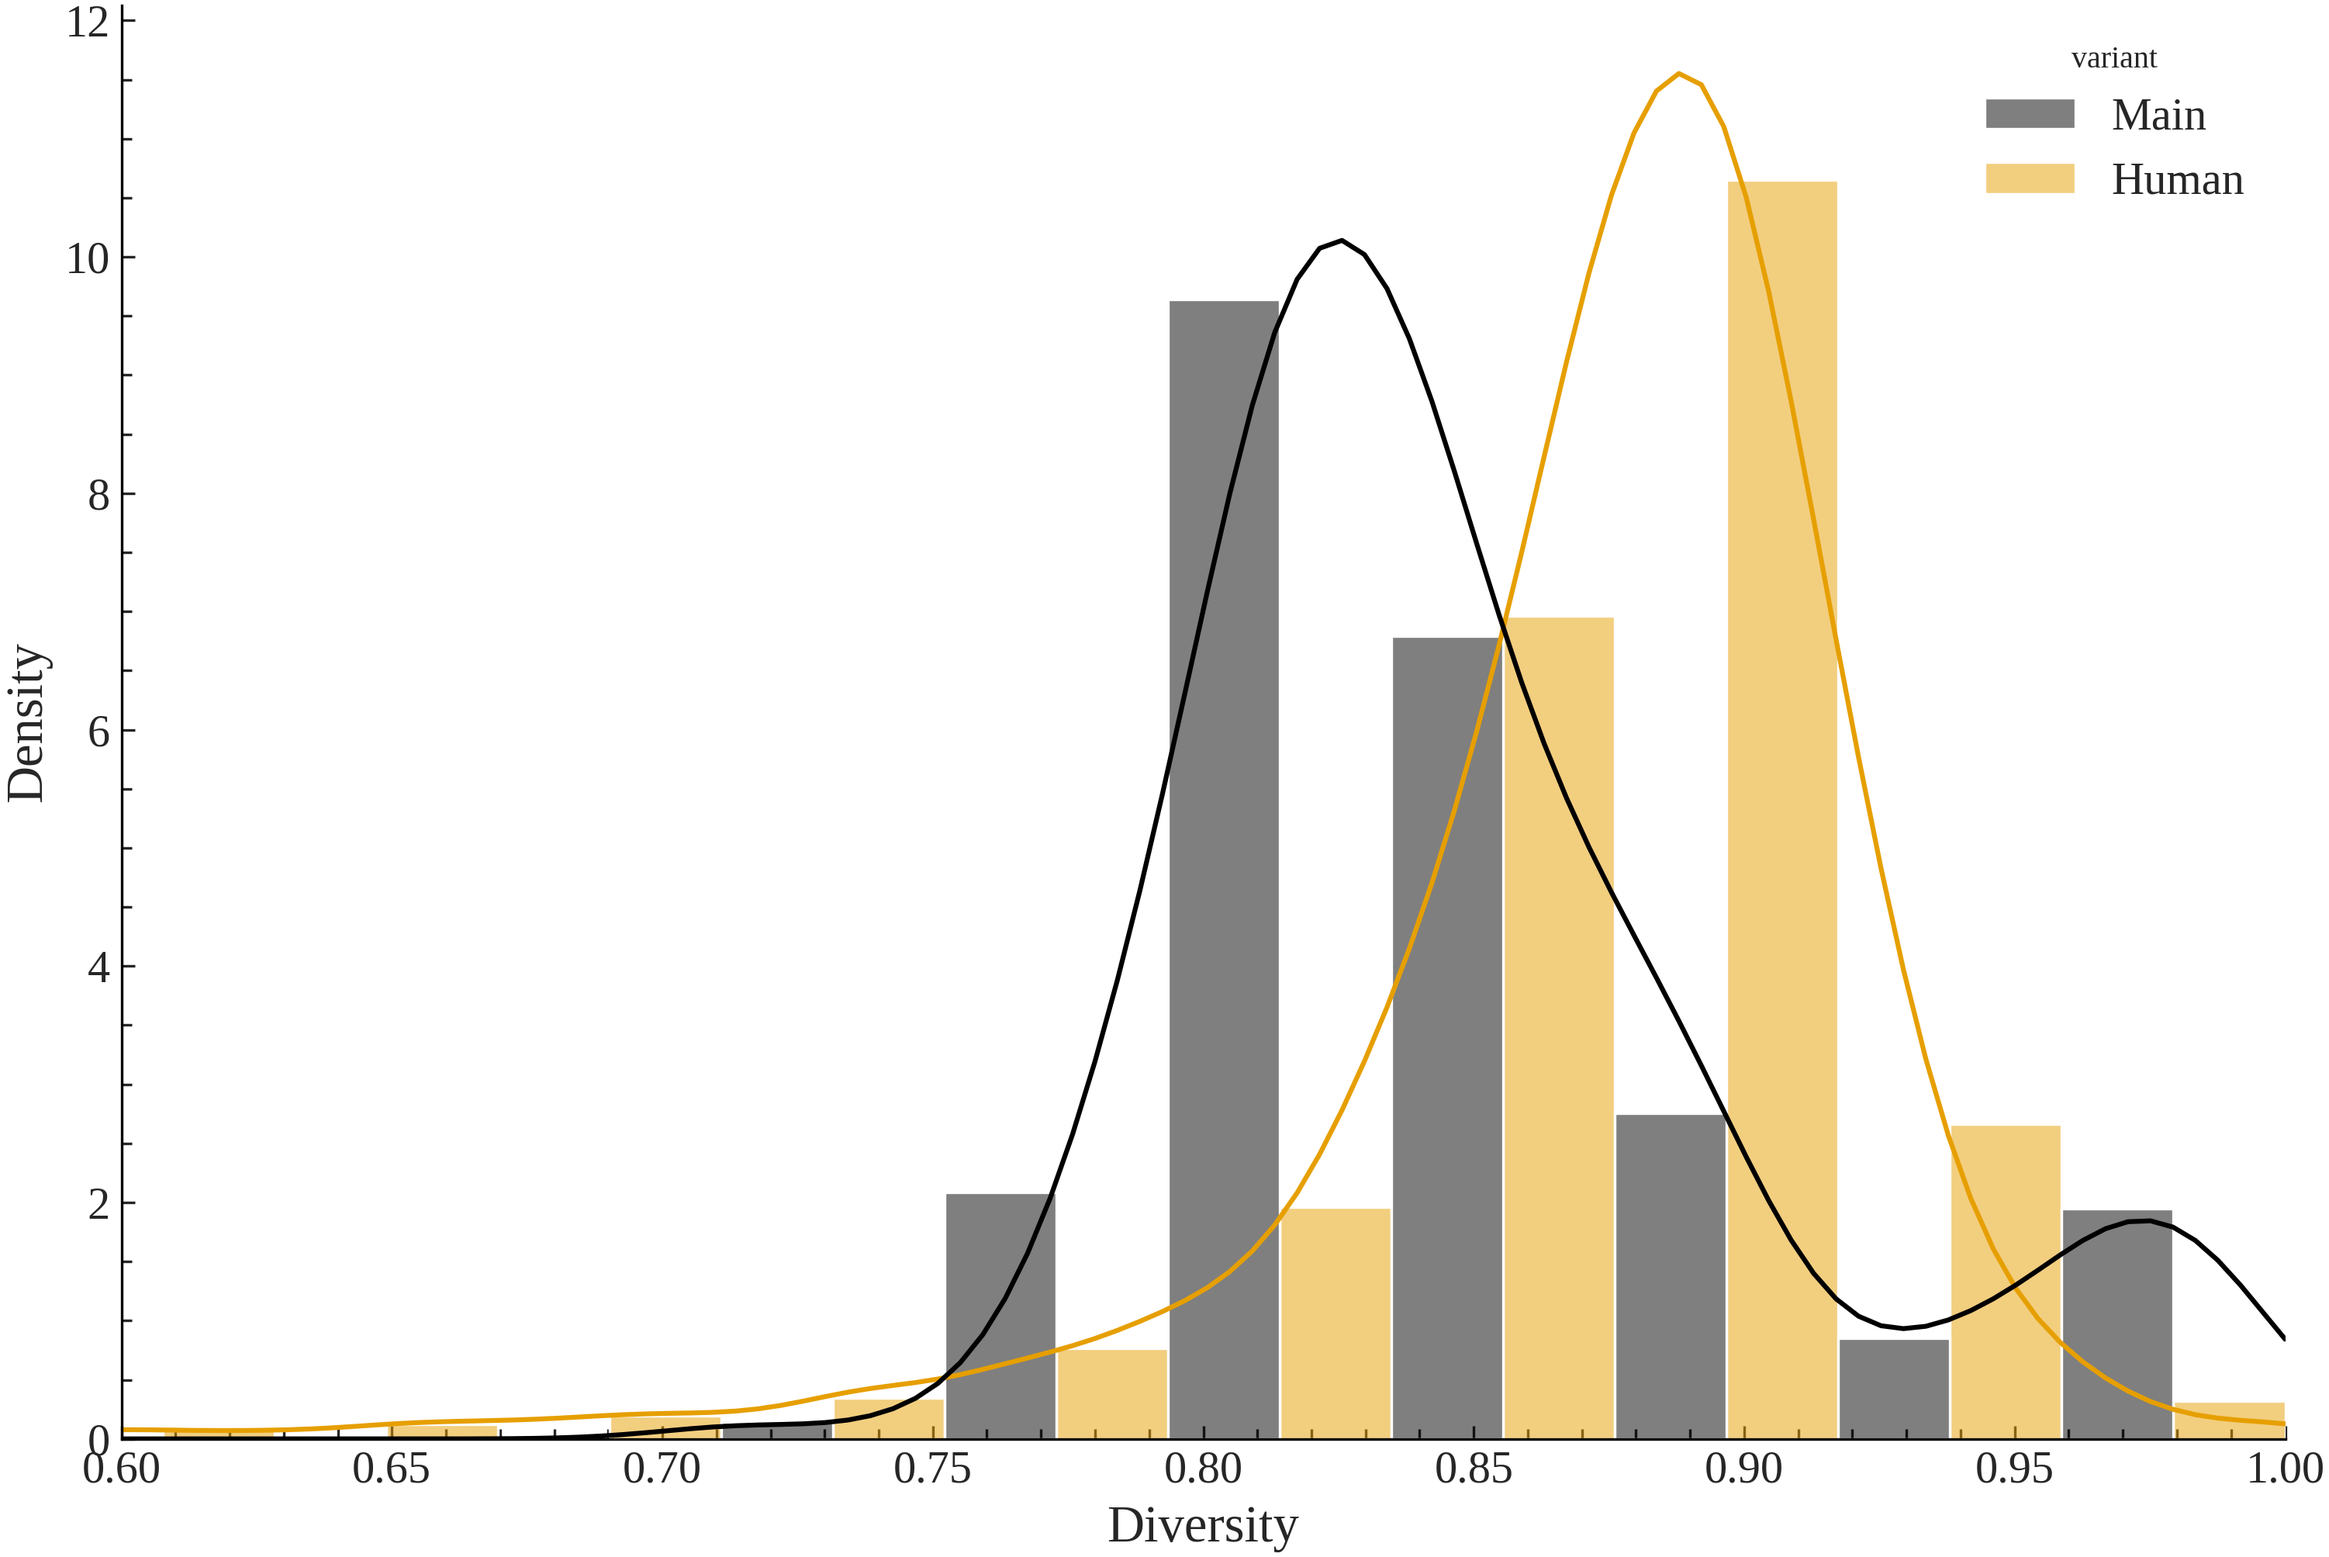
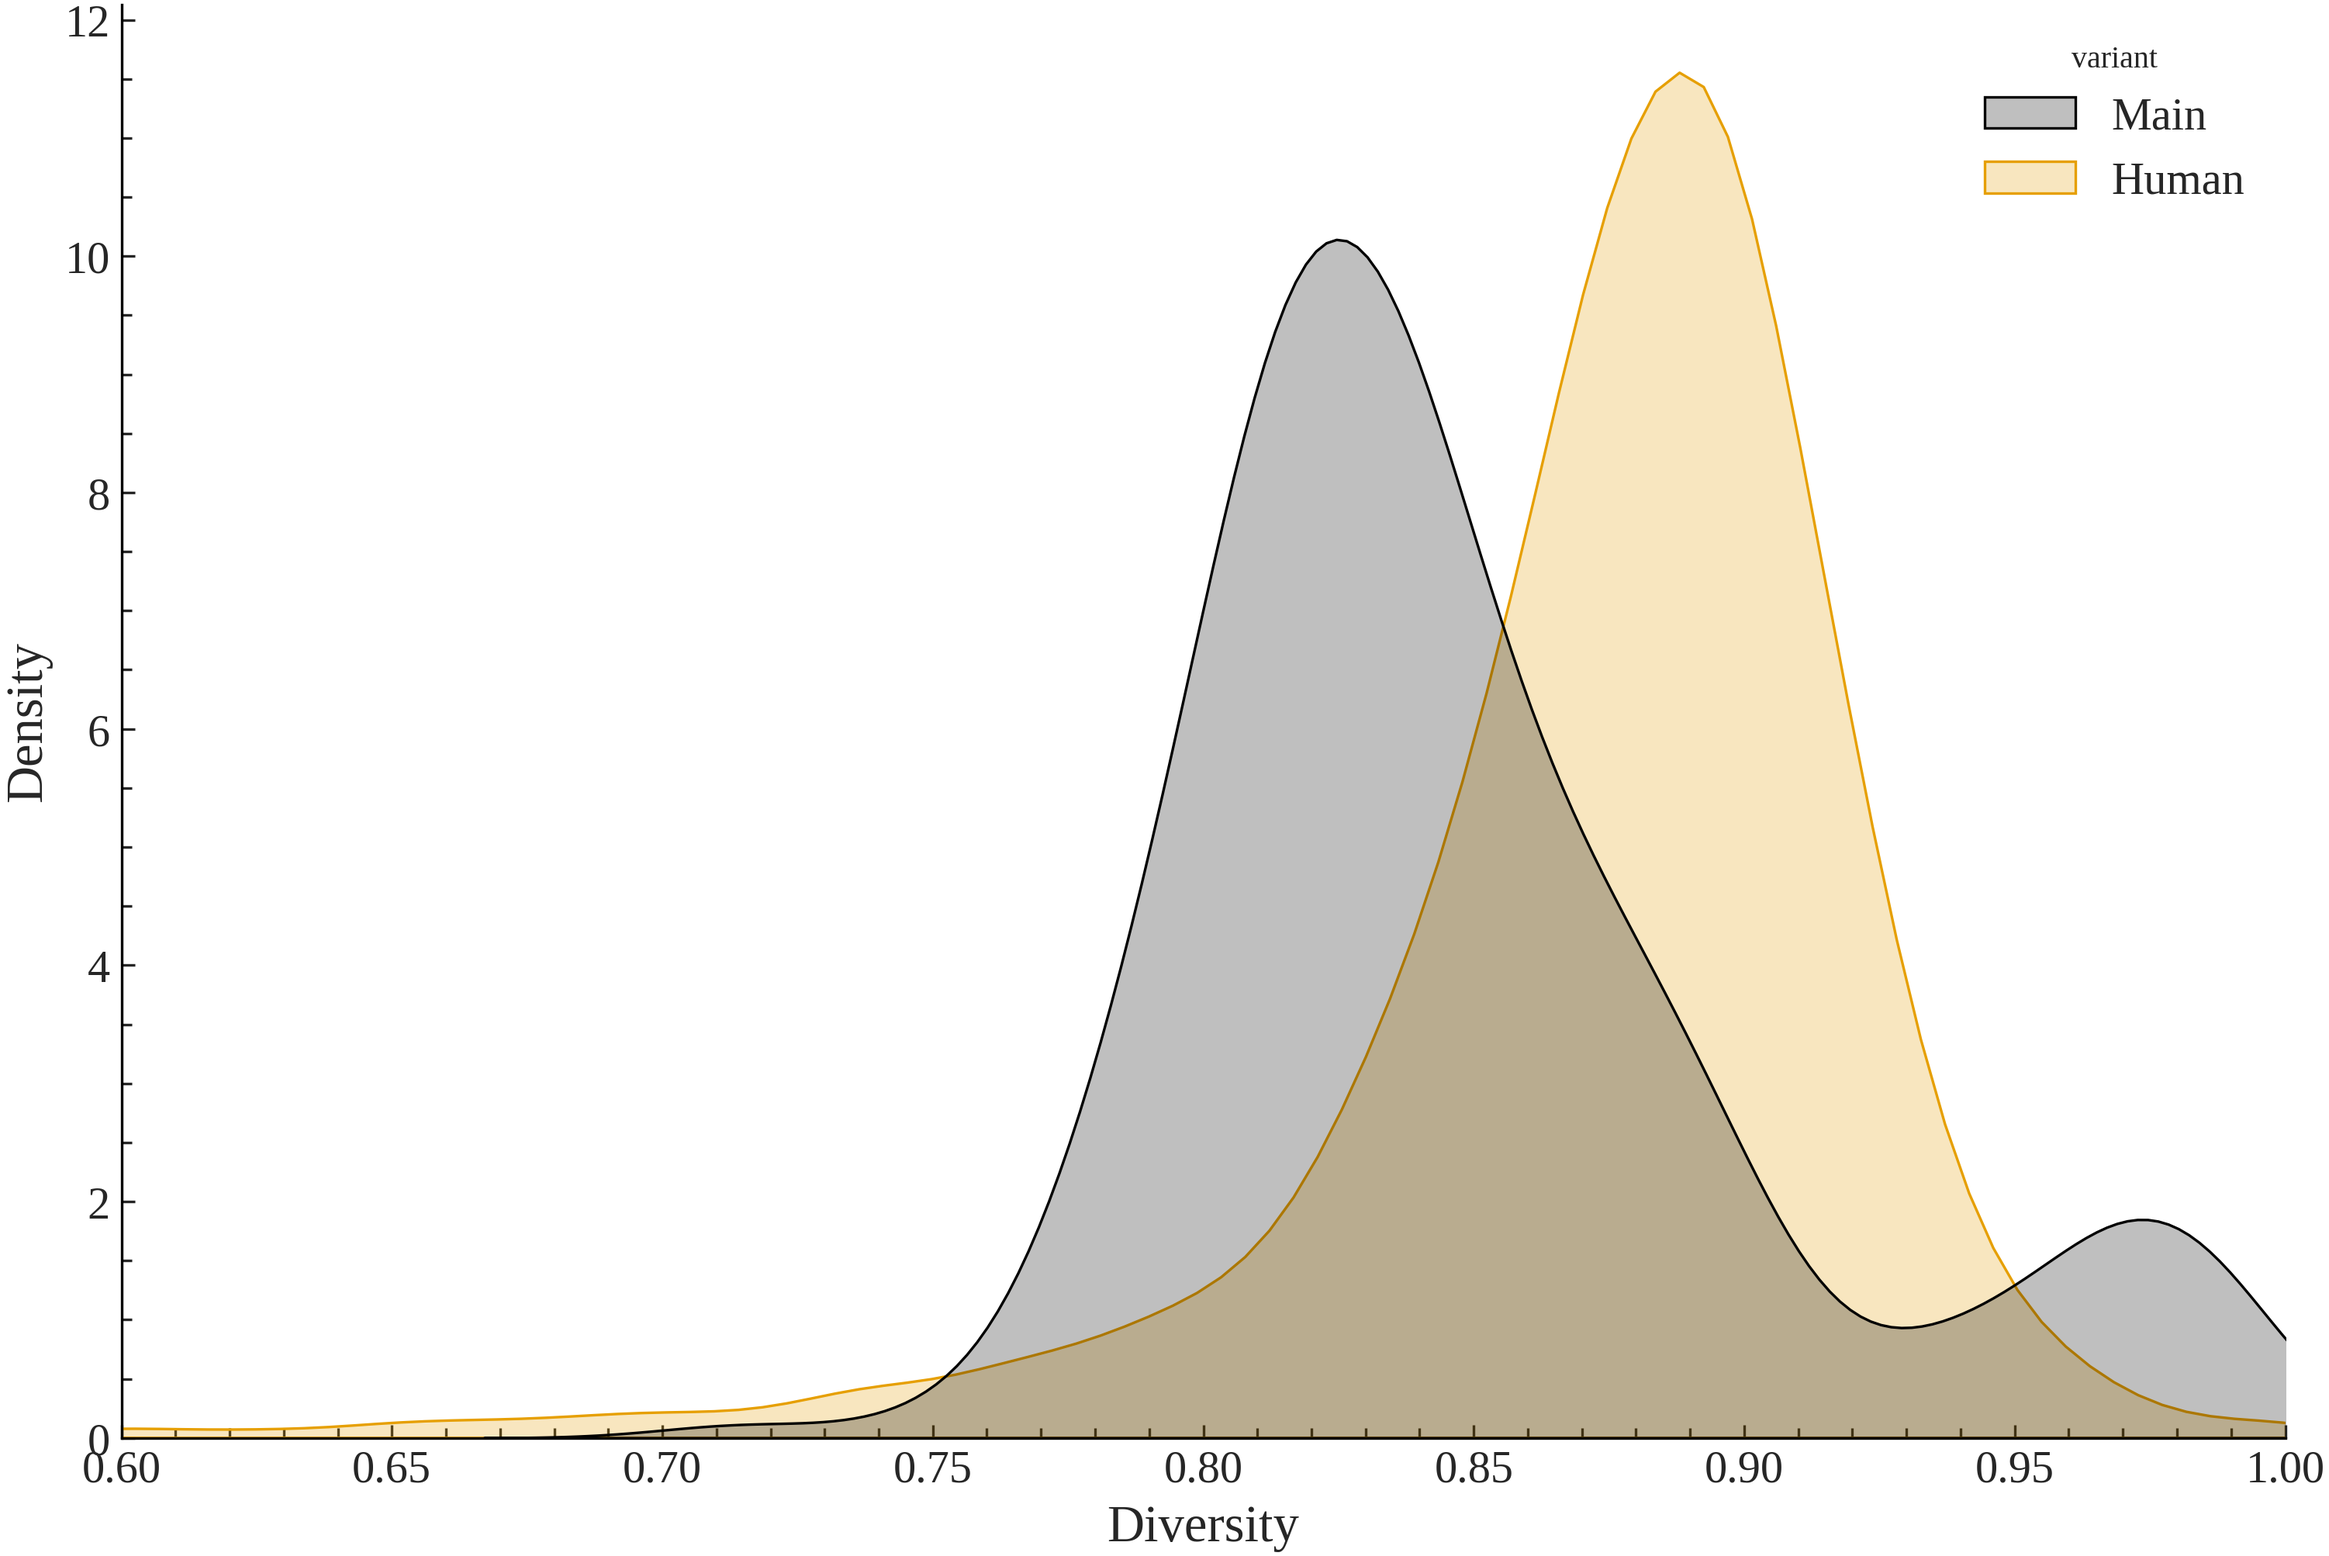
switch to kdeplots

Changed region(s): [[0.0619, 0.0309, 0.991, 0.9581], [0.8362, 0.0618, 0.8981, 0.1236]]

diff --git a/src/eval_dataset_analysis.py b/src/eval_dataset_analysis.py
@@ -136,15 +136,13 @@ def plot_dataset_diversity(
         similarity_df.to_csv(cache_path, index=False)
         print(f"Saved cache → {cache_path}")
 
-    sns.histplot(
+    sns.kdeplot(
         data=similarity_df,
         x="rougel_similarity",
         hue=y_col,
-        stat="density",
+        fill=True,
         common_norm=False,
-        multiple="dodge",
-        kde=True,
-        bins=20,
+        multiple="layer"
     )
     plt.xlim(0.6, 1)
     plt.xlabel("Diversity")
